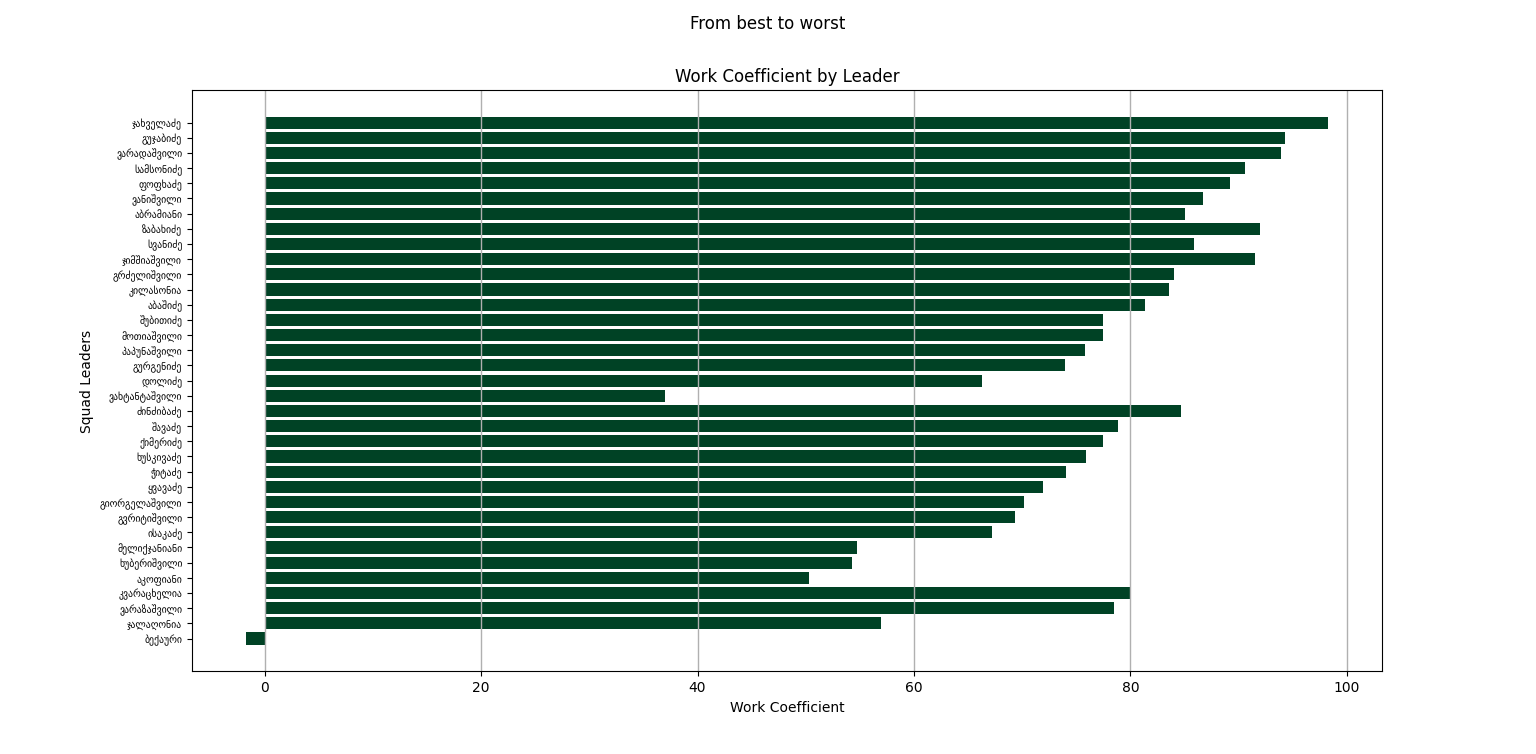
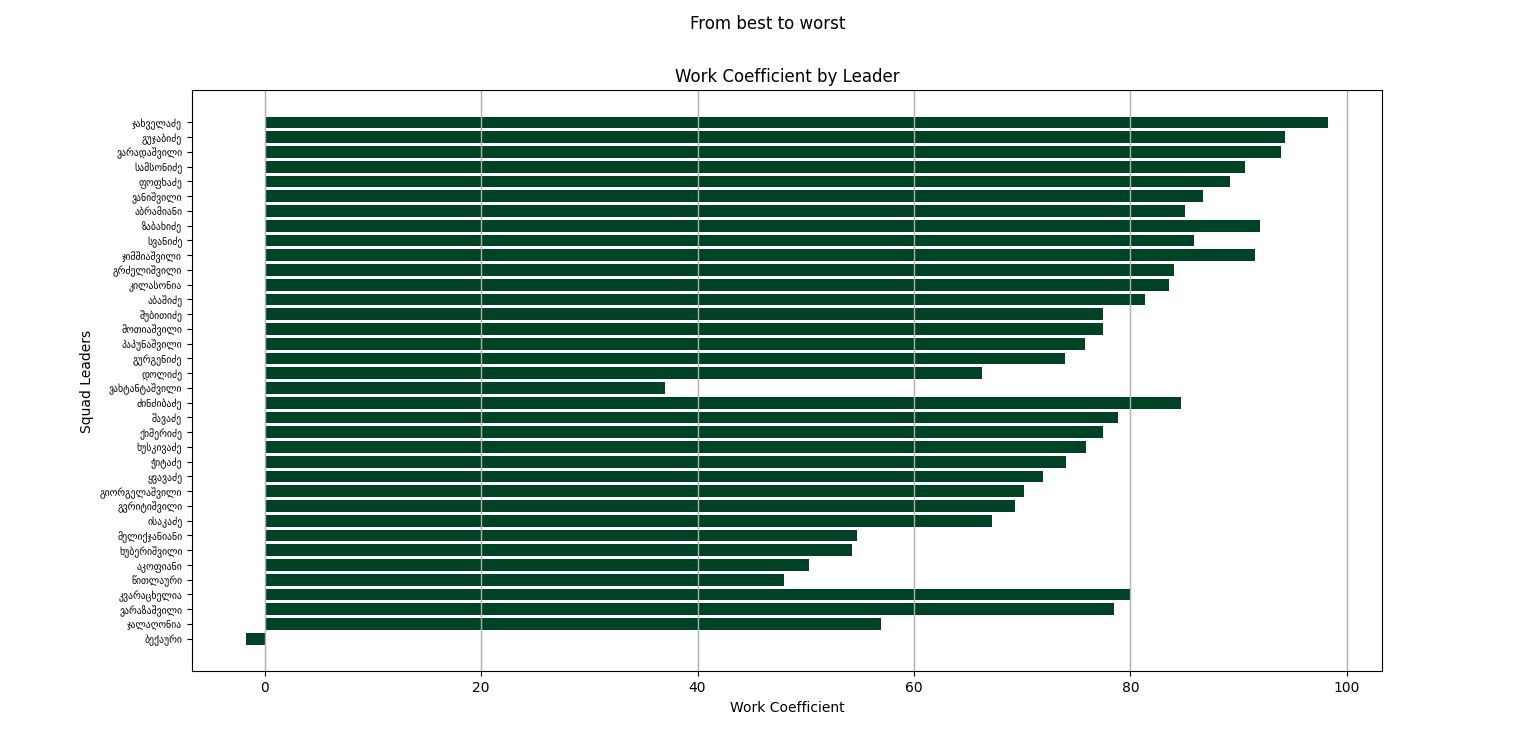
commit

Changed region(s): [[0.1562, 0.183, 0.8125, 0.8236], [0.0625, 0.183, 0.125, 0.8236]]

diff --git a/visualization.py b/visualization.py
@@ -1,7 +1,7 @@
 import numpy as np
 import matplotlib.pyplot as plt
 
-data = [('ჯახველაძე', 98.28571429, 175), ('გუჯაბიძე', 94.28571429, 210), ('ვარადაშვილი', 93.91304348, 115),('სამსონიძე', 90.55555556, 270), ('ფოფხაძე', 89.17431193, 272.5), ('ვანიშვილი', 86.66666667, 300), ('აბრამიანი', 85.03703704, 337.5),('ზაბახიძე', 92, 237.5), ('სვანიძე', 85.84615385, 162.5),('ჯიმშიაშვილი', 91.51515152, 82.5),('გრძელიშვილი', 84, 750), ('კილასონია', 83.58208955, 335), ('აბაშიძე', 81.30653266, 497.5), ('შუბითიძე', 77.5, 320), ('მოთიაშვილი', 77.4789916, 595), ('პაპუნაშვილი', 75.77777778, 450), ('გურგენიძე', 73.96825397, 315), ('დოლიძე', 66.2745098, 255), ('ვახტანტაშვილი', 36.98630137, 547.5),('ძინძიბაძე', 84.70588235, 170), ('შავაძე', 78.88888889, 180), ('ქიმერიძე', 77.5, 120), ('ხუსკივაძე', 75.89041096, 182.5), ('ჭიტაძე', 74.02597403, 192.5), ('ყვავაძე', 71.89873418, 197.5), ('გიორგელაშვილი', 70.21276596, 235), ('გვრიტიშვილი', 69.375, 240), ('ისაკაძე', 67.24137931, 145), ('მელიქჯანიანი', 54.71698113, 132.5), ('ხუბერიშვილი', 54.28571429, 157.5), ('აკოფიანი', 50.32258065, 155),('კვარაცხელია', 80, 95), ('ვარაზაშვილი', 78.51851852, 67.5), ('ჯალაღონია', 56.92307692, 65), ('ბექაური', -1.714285714, 87.5)]
+data = [('ჯახველაძე', 98.28571429, 175), ('გუჯაბიძე', 94.28571429, 210), ('ვარადაშვილი', 93.91304348, 115),('სამსონიძე', 90.55555556, 270), ('ფოფხაძე', 89.17431193, 272.5), ('ვანიშვილი', 86.66666667, 300), ('აბრამიანი', 85.03703704, 337.5),('ზაბახიძე', 92, 237.5), ('სვანიძე', 85.84615385, 162.5),('ჯიმშიაშვილი', 91.51515152, 82.5),('გრძელიშვილი', 84, 750), ('კილასონია', 83.58208955, 335), ('აბაშიძე', 81.30653266, 497.5), ('შუბითიძე', 77.5, 320), ('მოთიაშვილი', 77.4789916, 595), ('პაპუნაშვილი', 75.77777778, 450), ('გურგენიძე', 73.96825397, 315), ('დოლიძე', 66.2745098, 255), ('ვახტანტაშვილი', 36.98630137, 547.5),('ძინძიბაძე', 84.70588235, 170), ('შავაძე', 78.88888889, 180), ('ქიმერიძე', 77.5, 120), ('ხუსკივაძე', 75.89041096, 182.5), ('ჭიტაძე', 74.02597403, 192.5), ('ყვავაძე', 71.89873418, 197.5), ('გიორგელაშვილი', 70.21276596, 235), ('გვრიტიშვილი', 69.375, 240), ('ისაკაძე', 67.24137931, 145), ('მელიქჯანიანი', 54.71698113, 132.5), ('ხუბერიშვილი', 54.28571429, 157.5), ('აკოფიანი', 50.32258065, 155),('წითლაური', 48, 187.5),('კვარაცხელია', 80, 95), ('ვარაზაშვილი', 78.51851852, 67.5), ('ჯალაღონია', 56.92307692, 65), ('ბექაური', -1.714285714, 87.5)]
 
 names = [item[0] for item in data]
 coefficients = [item[1] for item in data]

diff --git a/main.py b/main.py
@@ -52,12 +52,12 @@ low_salary_low_eff = []
 # %, salary, name
 # calculate_work(0, 205, "Arghutashvili")
 
-coefficient = [98.28571429,94.28571429,93.91304348,92,91.51515152,90.55555556,89.17431193,86.66666667,85.84615385,85.03703704,84.70588235,84,83.58208955,81.30653266,80,78.88888889,78.51851852,77.5,77.5,77.4789916,75.89041096,75.77777778,74.02597403,73.96825397,71.89873418,70.21276596,69.375,67.24137931,66.2745098,56.92307692,54.71698113,54.28571429,50.32258065,36.98630137,-1.714285714]
+coefficient = [98.28571429,94.28571429,93.91304348,92,91.51515152,90.55555556,89.17431193,86.66666667,85.84615385,85.03703704,84.70588235,84,83.58208955,81.30653266,80,78.88888889,78.51851852,77.5,77.5,77.4789916,75.89041096,75.77777778,74.02597403,73.96825397,71.89873418,70.21276596,69.375,67.24137931,66.2745098,56.92307692,54.71698113,54.28571429,50.32258065,36.98630137,-1.714285714,48]
 
-Salaries = [175,210,115,237.5,82.5,270,272.5,300,162.5,337.5,170,750,335,497.5,95,180,67.5,320,120,595,182.5,450,192.5,315,197.5,235,240,145,255,65,132.5,157.5,155,547.5,87.5]
+Salaries = [175,210,115,237.5,82.5,270,272.5,300,162.5,337.5,170,750,335,497.5,95,180,67.5,320,120,595,182.5,450,192.5,315,197.5,235,240,145,255,65,132.5,157.5,155,547.5,87.5,187.5]
 
 names = ["ჯახველაძე","გუჯაბიძე","ვარადაშვილი","ზაბახიძე","ჯიმშიაშვილი","სამსონიძე","ფოფხაძე","ვანიშვილი","სვანიძე","აბრამიანი","ძინძიბაძე","გრძელიშვილი","კილასონია","აბაშიძე","კვარაცხელია","შავაძე","ვარაზაშვილი",
-"შუბითიძე","ქიმერიძე","მოთიაშვილი","ხუსკივაძე","პაპუნაშვილი","ჭიტაძე","გურგენიძე","ყვავაძე","გიორგელაშვილი","გვრიტიშვილი","ისაკაძე","დოლიძე","ჯალაღონია","მელიქჯანიანი","ხუბერიშვილი","აკოფიანი","ვახტანტაშვილი","ბექაური"]
+"შუბითიძე","ქიმერიძე","მოთიაშვილი","ხუსკივაძე","პაპუნაშვილი","ჭიტაძე","გურგენიძე","ყვავაძე","გიორგელაშვილი","გვრიტიშვილი","ისაკაძე","დოლიძე","ჯალაღონია","მელიქჯანიანი","ხუბერიშვილი","აკოფიანი","ვახტანტაშვილი","ბექაური", "წითლაური"]
 
 [calculate_work(coefficient[i], Salaries[i], names[i]) for i in range(len(names))]
 
